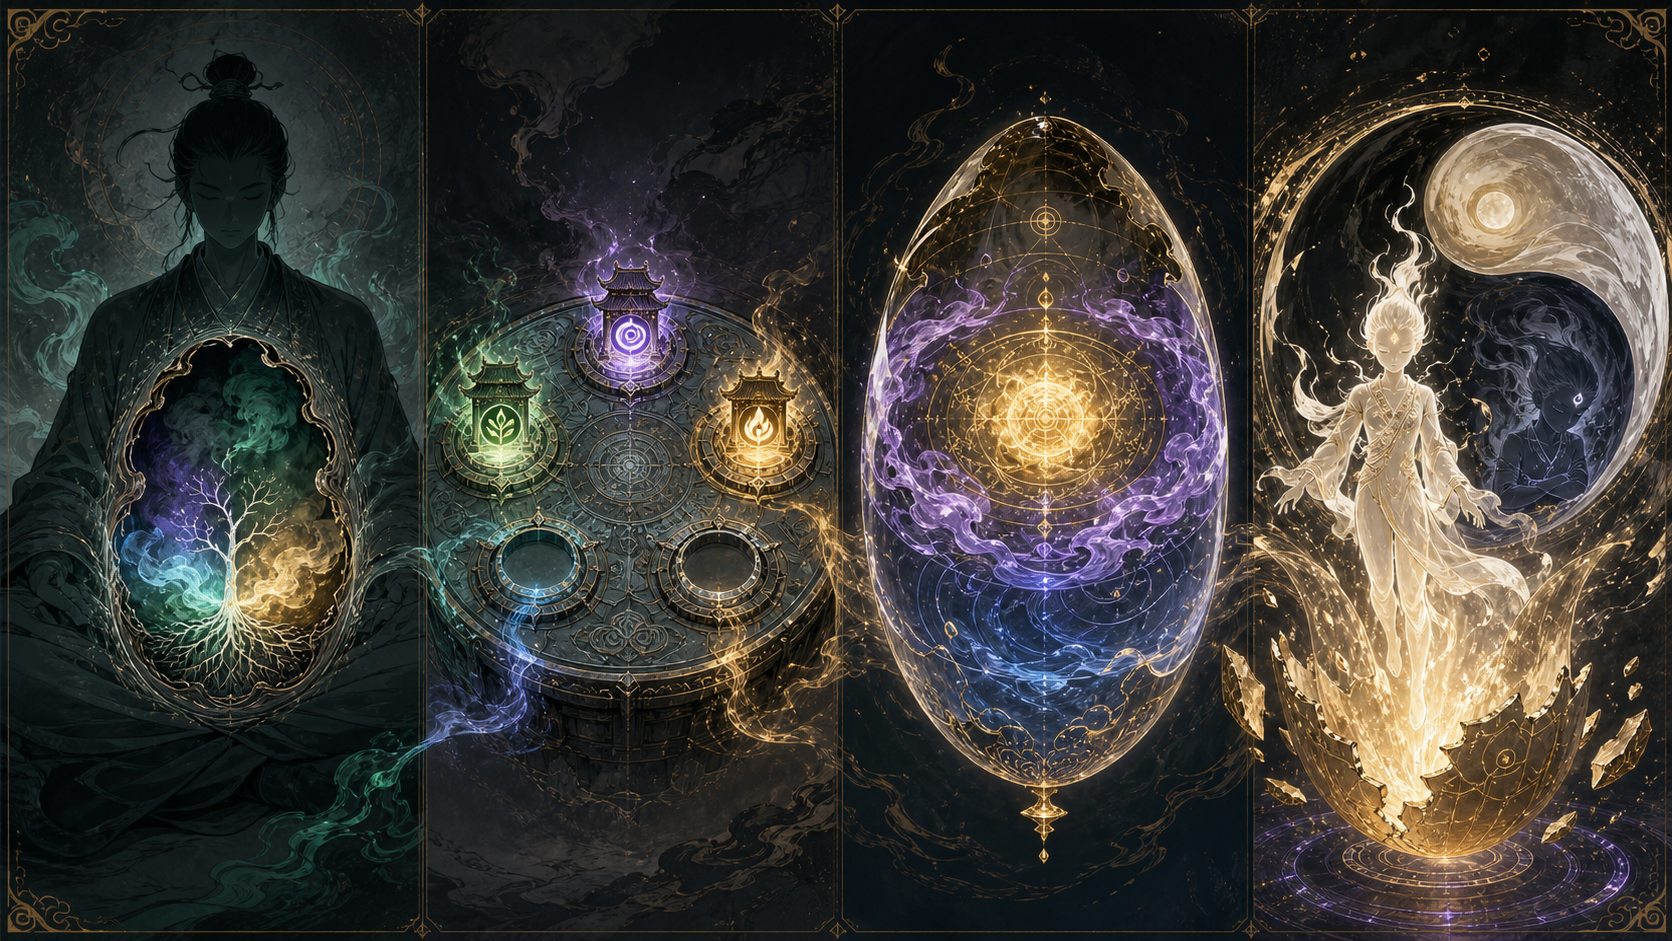
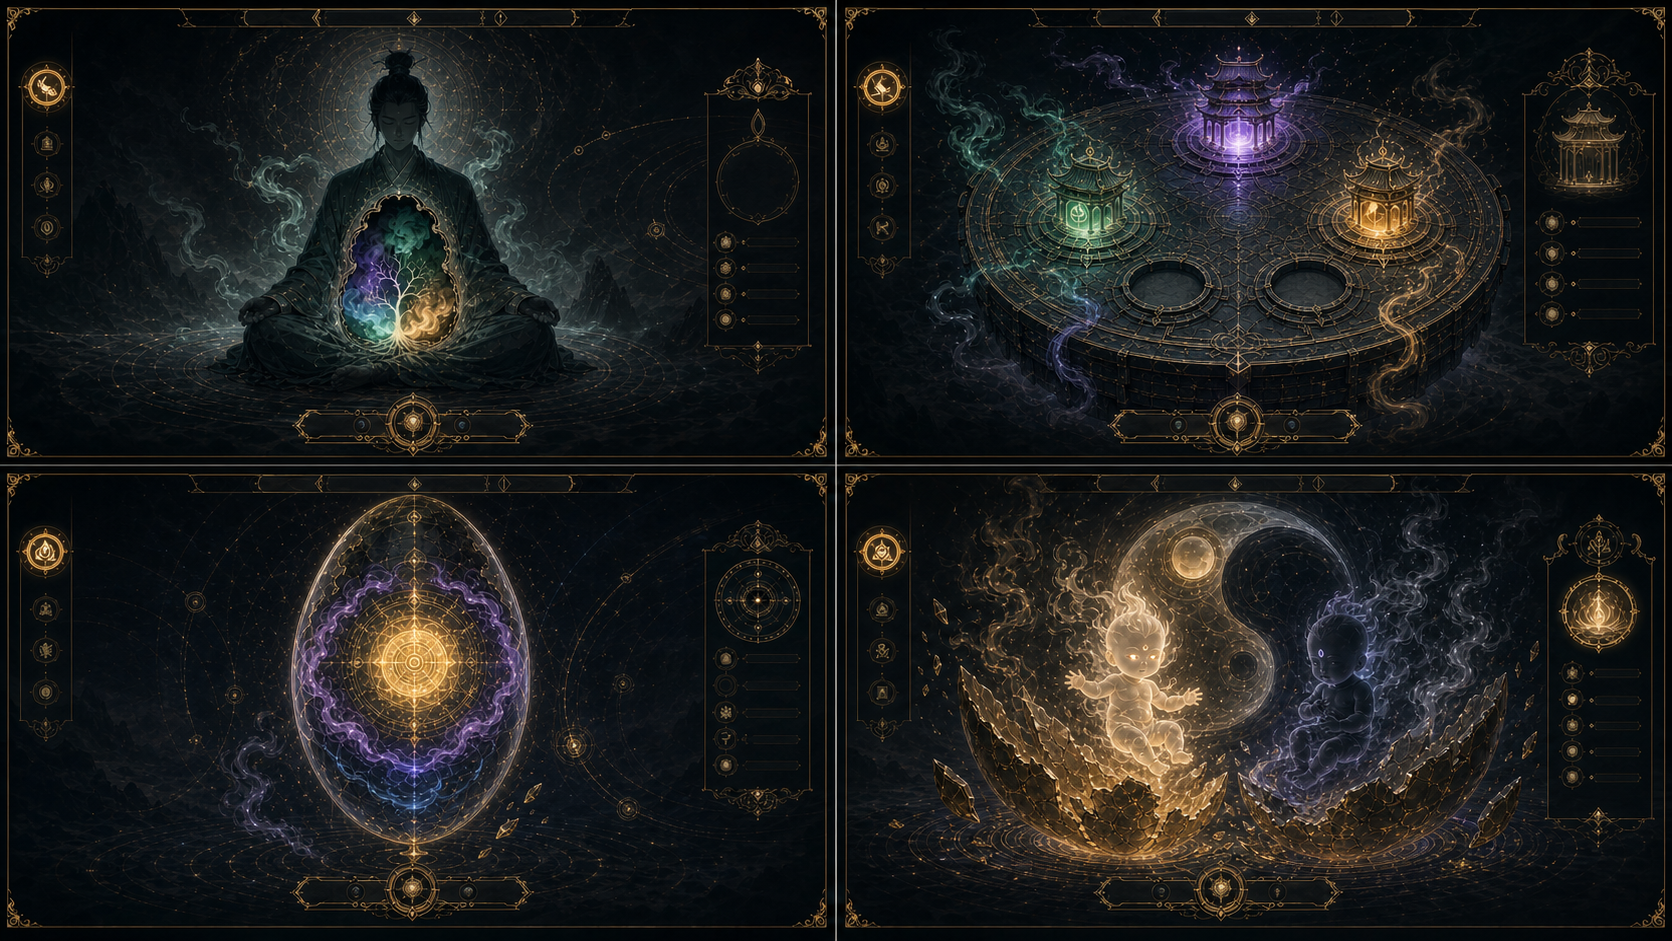
docs: update realm UI PC visual baseline

diff --git a/docs/superpowers/specs/2026-07-17-realm-ui-visual-design.md b/docs/superpowers/specs/2026-07-17-realm-ui-visual-design.md
@@ -1,6 +1,6 @@
 # 境界界面视觉与交互设计记录
 
-状态：阶段性设计记录；用户已确认先以第一版概念样图作为视觉基准试用。本文记录灵感、适配判断和事实源边界，不直接替代已审核境界设定，也不代表已经进入 Unity 实现。
+状态：阶段性设计记录；用户已确认先以 PC 横屏重制样图作为临时视觉基准。本文记录灵感、适配判断和事实源边界，不直接替代已审核境界设定，也不代表已经进入 Unity 实现或最终美术定稿。
 
 日期：2026-07-17
 
@@ -15,7 +15,7 @@
 
 视觉参考：
 
-- [第一版境界演化概念样图](../../../assets/generated-ui-art/realm-ui/realm-progression-concept-v1.png)
+- [PC 横屏境界演化概念样图（临时基准）](../../../assets/generated-ui-art/realm-ui/realm-progression-concept-v1.png)
 - `assets/generated-character-art/no-title/` 下的现有角色立绘只作为项目整体风格参照，不要求境界界面改为同样的浅色宣纸背景。
 
 ## 一、界面目标
@@ -31,14 +31,16 @@
 
 ## 二、已确认视觉方向
 
-暂定采用第一版概念样图的方向：
+暂定采用第一版概念样图的黑金视觉方向，并以 PC 横屏重制样图作为当前基准：
 
 - 全幅深色背景，中央修行结构自发光，形成体内观想与丹田内景的封闭感。
 - 每个大境界拥有全新的中央视觉主体和构图，不把所有境界套入同一个固定容器。
 - 保留较强的仪式感、空间层次和高对比度，不强求与浅色角色立绘使用同一背景。
 - 与角色立绘的统一主要来自中国修仙题材、纹样、材料、色彩和笔触，而不是所有界面都改成同一种平面水墨设定页。
 - 金色边框与装饰目前随第一版一起保留为暂定基准；后续可调整用量，但不在本轮继续生成折中版本。
-- 四阶段并排图只用于验证形态继承与突破转化，不是最终游戏界面的四栏布局。
+- 单个境界界面按 PC 16:9 横屏设计，不使用手机竖屏比例或纵向卡片构图。
+- 四阶段总览改为 2×2 接触表，只用于验证形态继承与突破转化；每个分区代表一张独立的 16:9 游戏界面，不是最终游戏中的四宫格页面。
+- 四个境界均采用统一的中轴构图：核心修行主体、底部行动区和突破演出焦点全部居中，不混用左对齐与居中对齐。
 
 后续探索中产生的浅纸 2.5D、重复丹田腔室和亮纸沉墨版本不作为当前基准。它们分别暴露了天外秘境感、宗教解剖图感和脏污纸面感等问题。
 
@@ -46,13 +48,14 @@
 
 每个大境界使用独立中央舞台，但保留稳定的外围交互位置，避免玩家每次突破都重新学习操作：
 
-- 中央：当前境界的核心修行结构，可轻微旋转、悬停或点击查看组成部分。
+- 中央：当前境界的核心修行结构固定在画面水平中轴，可轻微旋转、悬停或点击查看组成部分。
 - 上方：境界名、小阶段和最简进度信息。
-- 侧边：与当前境界直接相关的结构摘要，默认收起。
-- 下方：修炼、突破或确认按钮；不满足条件时显示缺失项，不只显示灰色按钮。
+- 左侧：稳定的境界导航区。
+- 右侧：与当前境界直接相关的结构摘要，默认收起。左右侧栏在宽度和视觉重量上保持平衡，不能把中央主体挤偏。
+- 下方：沿画面中轴放置修炼、突破或确认按钮；不满足条件时显示缺失项，不只显示灰色按钮。
 - 详情：点击道基、府位、神通或位格后打开局部信息，不常驻铺满屏幕。
 
-大境界变化时，中央舞台完全重构；外围导航、返回、帮助、属性入口和确认按钮位置尽量保持一致。
+大境界变化时，中央舞台完全重构；外围导航、返回、帮助、属性入口和确认按钮位置保持一致。所有境界必须使用同一套对齐逻辑，不能出现某页主体靠左、另一页主体居中的情况。
 
 ## 四、各境界的视觉与状态
 
@@ -144,7 +147,7 @@
 
 ## 七、当前结论与后续验证
 
-当前结论：第一版概念样图作为阶段性视觉基准试用；后续不再为了机械统一角色立绘背景而削弱深色丹田内景和境界仪式感。
+当前结论：PC 横屏重制样图作为阶段性视觉基准试用。它保留第一版的深色丹田内景、黑金材质和境界仪式感，同时将每个境界改为独立 16:9 横屏构图，并统一采用中央主体居中的布局规则。该样图仍是方向稿，不代表控件尺寸、文字排版和最终资产已经定稿。
 
 下一轮如果继续细化，应停止生成四阶段总览，改为选择一个境界制作单界面样稿。推荐先验证筑基界面，因为它能同时检验道基差异、五府可读性、主修府位、空槽位、紫府神通装载和信息收纳。
 
